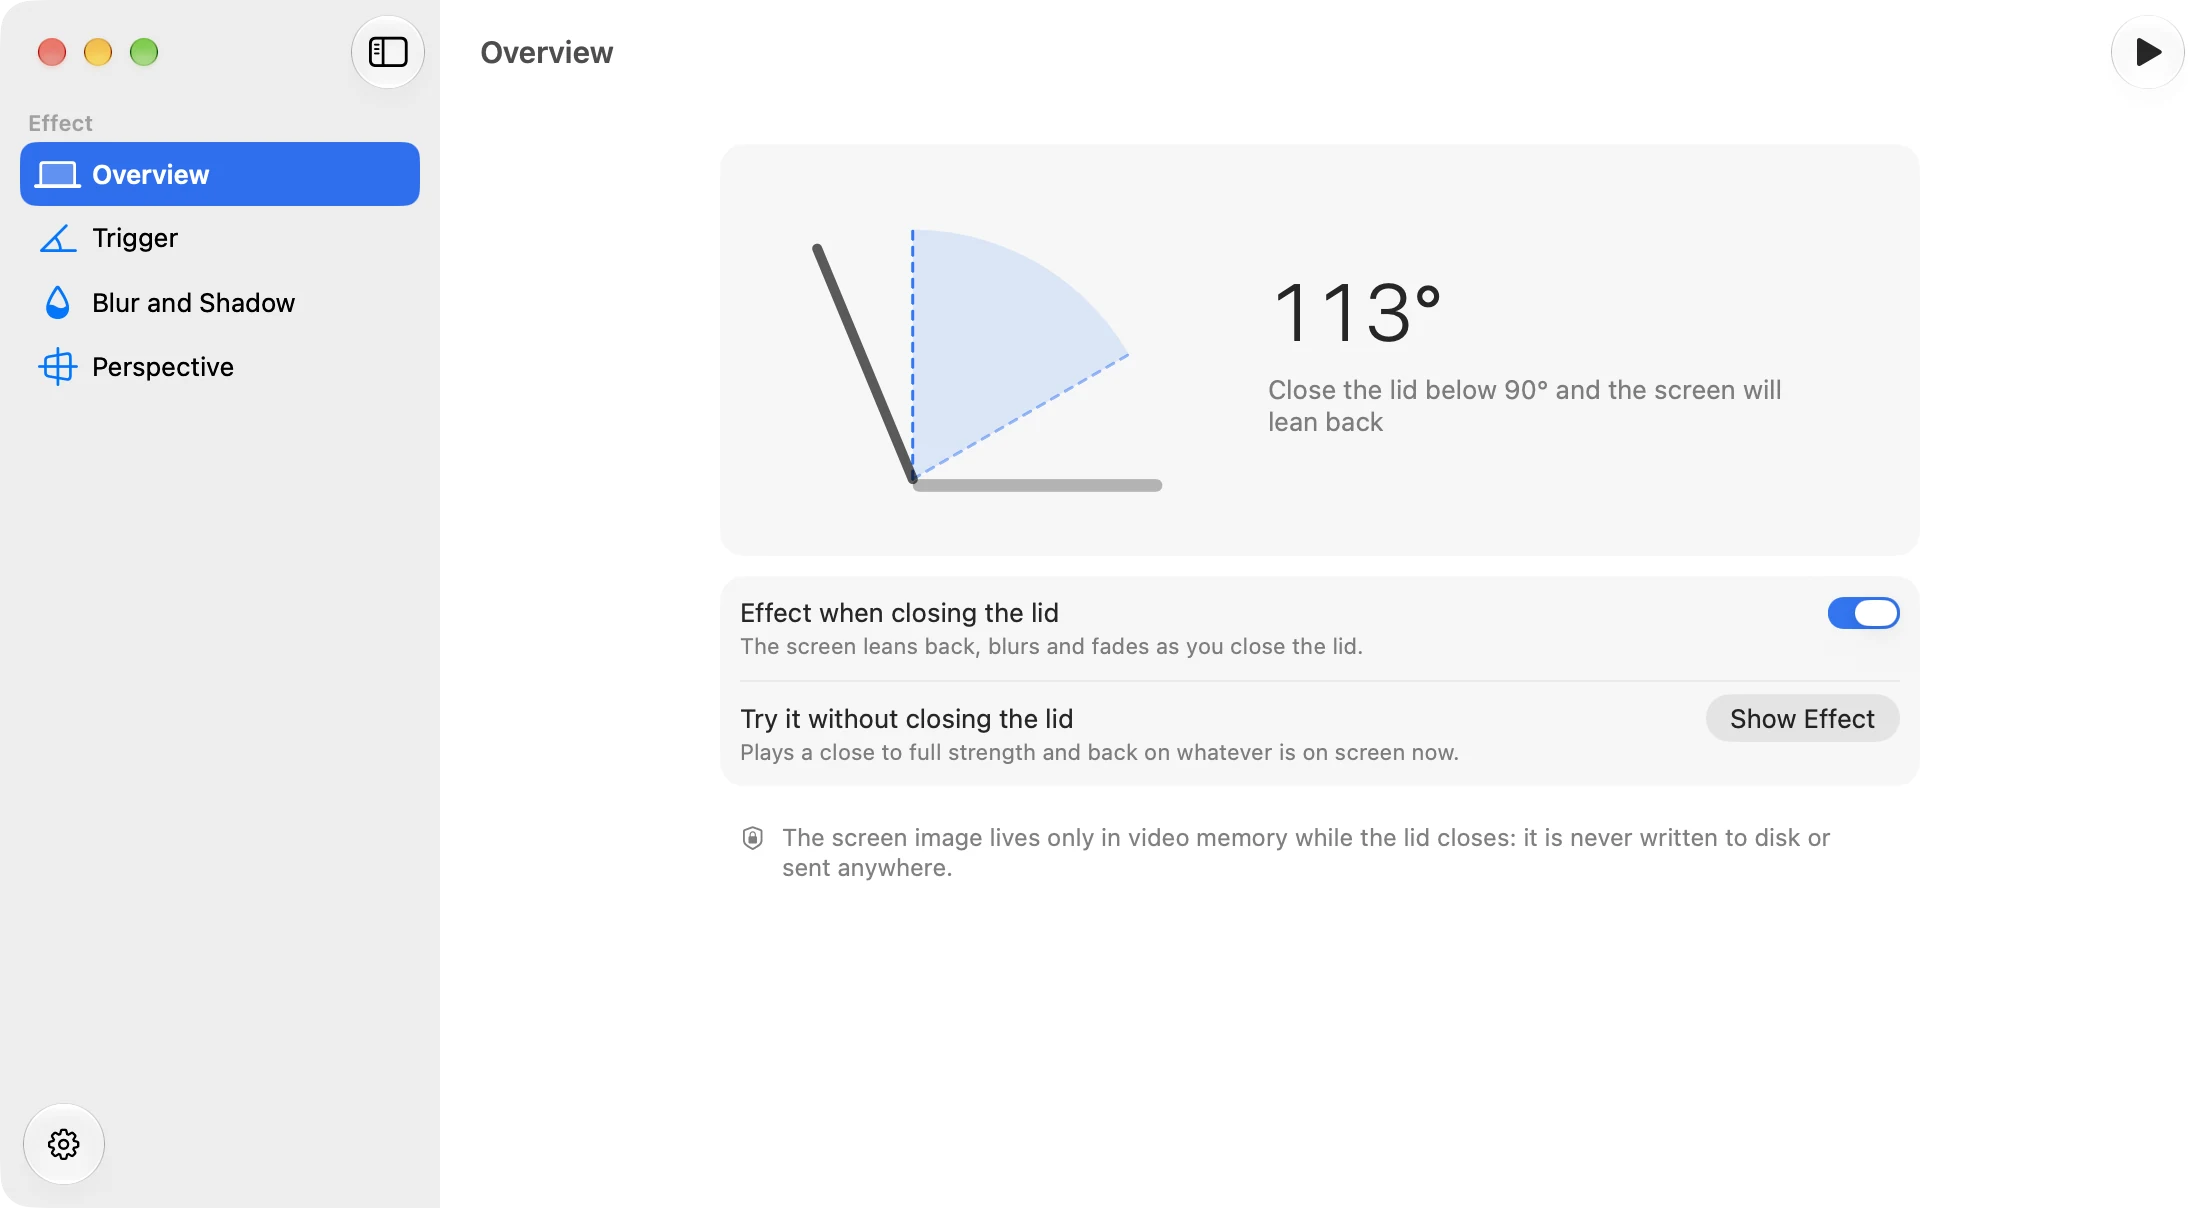
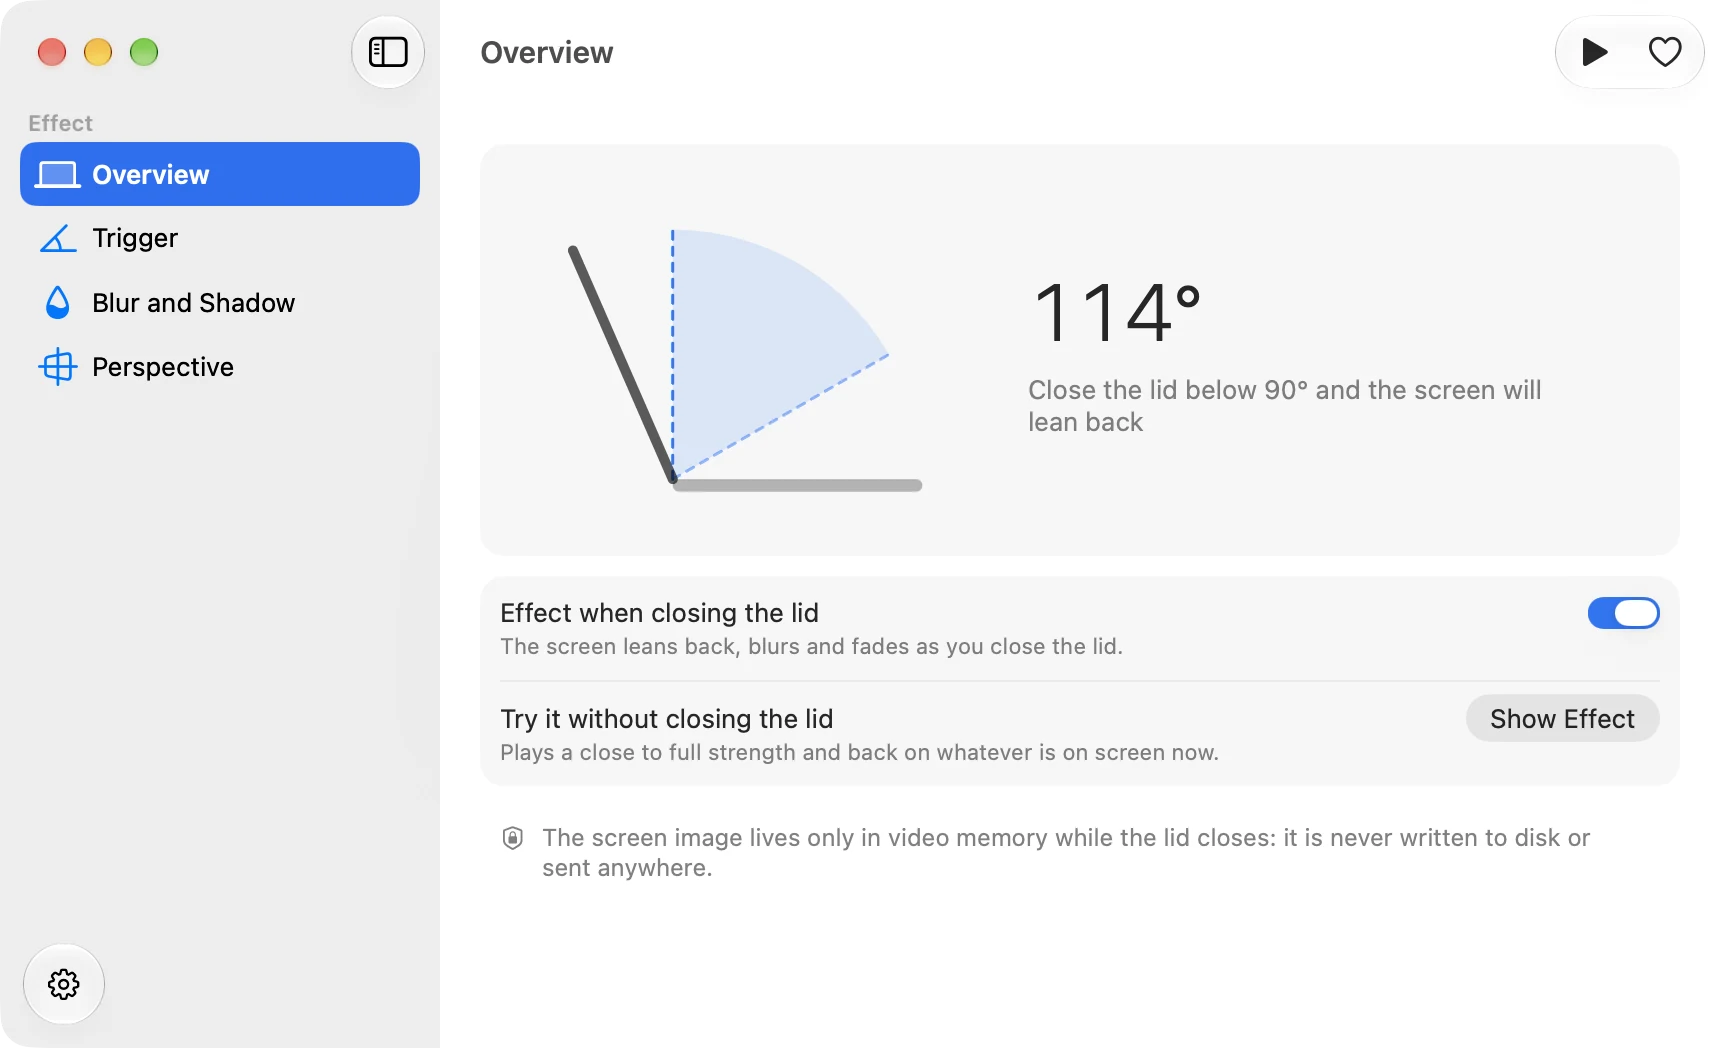
Сайт: 1.0.2, компактный снимок окна

diff --git a/index.html b/index.html
@@ -19,7 +19,7 @@
 <meta name="twitter:card" content="summary_large_image">
 <link rel="icon" type="image/png" href="img/icon-64.png">
 <link rel="apple-touch-icon" href="img/apple-touch-icon.png">
-<link rel="stylesheet" href="style.css?v=e6a2213868">
+<link rel="stylesheet" href="style.css?v=f75392ae5f">
 </head>
 <body>
 <nav class="nav"><div class="wide">
@@ -40,7 +40,7 @@
     <p class="meta">Для MacBook с Apple Silicon и macOS 26 или новее</p>
     <div class="badges"><span class="badge"><svg viewBox="0 0 24 24" fill="none" stroke="currentColor" stroke-width="2" stroke-linecap="round" stroke-linejoin="round"><path d="M3 3l18 18M8.5 16.5a5 5 0 0 1 7 0M5 12.9a10 10 0 0 1 4.2-2.6M19 12.9a10 10 0 0 0-2.8-2M1.8 9.4a15 15 0 0 1 3.9-2.5M22.2 9.4A15 15 0 0 0 11 5.1M12 20h.01"/></svg>Без интернета</span><span class="badge"><svg viewBox="0 0 24 24" fill="none" stroke="currentColor" stroke-width="2" stroke-linecap="round" stroke-linejoin="round"><circle cx="12" cy="8" r="4"/><path d="M4 21a8 8 0 0 1 16 0"/></svg>Без регистрации</span><span class="badge"><svg viewBox="0 0 24 24" fill="none" stroke="currentColor" stroke-width="2" stroke-linecap="round" stroke-linejoin="round"><rect x="3" y="8" width="18" height="4" rx="1"/><path d="M12 8v13M19 12v7a2 2 0 0 1-2 2H7a2 2 0 0 1-2-2v-7M7.5 8a2.5 2.5 0 0 1 0-5C11 3 12 8 12 8s1-5 4.5-5a2.5 2.5 0 0 1 0 5"/></svg>Бесплатно</span></div>
   </div>
-  <picture><source media="(prefers-color-scheme: dark)" srcset="img/overview-ru-dark-1280.webp 1280w, img/overview-ru-dark-2x.webp 2200w" sizes="(max-width: 1240px) 100vw, 1180px"><img class="shot" src="img/overview-ru-1280.webp" srcset="img/overview-ru-1280.webp 1280w, img/overview-ru-2x.webp 2200w" sizes="(max-width: 1240px) 100vw, 1180px" width="2200" height="1208" alt="Окно Наклона: схема крышки с текущим углом и зоной эффекта" fetchpriority="high"></picture>
+  <picture><source media="(prefers-color-scheme: dark)" srcset="img/overview-ru-dark-1280.webp 1280w, img/overview-ru-dark-2x.webp 1720w" sizes="(max-width: 1000px) 100vw, 960px"><img class="shot" src="img/overview-ru-1280.webp" srcset="img/overview-ru-1280.webp 1280w, img/overview-ru-2x.webp 1720w" sizes="(max-width: 1000px) 100vw, 960px" width="1720" height="1048" alt="Окно Наклона: схема крышки с текущим углом и зоной эффекта" fetchpriority="high"></picture>
 </header>
 
 <section id="features">

diff --git a/en/index.html b/en/index.html
@@ -19,7 +19,7 @@
 <meta name="twitter:card" content="summary_large_image">
 <link rel="icon" type="image/png" href="../img/icon-64.png">
 <link rel="apple-touch-icon" href="../img/apple-touch-icon.png">
-<link rel="stylesheet" href="../style.css?v=e6a2213868">
+<link rel="stylesheet" href="../style.css?v=f75392ae5f">
 </head>
 <body>
 <nav class="nav"><div class="wide">
@@ -40,7 +40,7 @@
     <p class="meta">For MacBooks with Apple Silicon running macOS 26 or later</p>
     <div class="badges"><span class="badge"><svg viewBox="0 0 24 24" fill="none" stroke="currentColor" stroke-width="2" stroke-linecap="round" stroke-linejoin="round"><path d="M3 3l18 18M8.5 16.5a5 5 0 0 1 7 0M5 12.9a10 10 0 0 1 4.2-2.6M19 12.9a10 10 0 0 0-2.8-2M1.8 9.4a15 15 0 0 1 3.9-2.5M22.2 9.4A15 15 0 0 0 11 5.1M12 20h.01"/></svg>Works offline</span><span class="badge"><svg viewBox="0 0 24 24" fill="none" stroke="currentColor" stroke-width="2" stroke-linecap="round" stroke-linejoin="round"><circle cx="12" cy="8" r="4"/><path d="M4 21a8 8 0 0 1 16 0"/></svg>No sign-up</span><span class="badge"><svg viewBox="0 0 24 24" fill="none" stroke="currentColor" stroke-width="2" stroke-linecap="round" stroke-linejoin="round"><rect x="3" y="8" width="18" height="4" rx="1"/><path d="M12 8v13M19 12v7a2 2 0 0 1-2 2H7a2 2 0 0 1-2-2v-7M7.5 8a2.5 2.5 0 0 1 0-5C11 3 12 8 12 8s1-5 4.5-5a2.5 2.5 0 0 1 0 5"/></svg>Free</span></div>
   </div>
-  <picture><source media="(prefers-color-scheme: dark)" srcset="../img/overview-en-dark-1280.webp 1280w, ../img/overview-en-dark-2x.webp 2200w" sizes="(max-width: 1240px) 100vw, 1180px"><img class="shot" src="../img/overview-en-1280.webp" srcset="../img/overview-en-1280.webp 1280w, ../img/overview-en-2x.webp 2200w" sizes="(max-width: 1240px) 100vw, 1180px" width="2200" height="1208" alt="The Naklon window: a lid diagram with the current angle and the effect zone" fetchpriority="high"></picture>
+  <picture><source media="(prefers-color-scheme: dark)" srcset="../img/overview-en-dark-1280.webp 1280w, ../img/overview-en-dark-2x.webp 1720w" sizes="(max-width: 1000px) 100vw, 960px"><img class="shot" src="../img/overview-en-1280.webp" srcset="../img/overview-en-1280.webp 1280w, ../img/overview-en-2x.webp 1720w" sizes="(max-width: 1000px) 100vw, 960px" width="1720" height="1048" alt="The Naklon window: a lid diagram with the current angle and the effect zone" fetchpriority="high"></picture>
 </header>
 
 <section id="features">

diff --git a/style.css b/style.css
@@ -262,3 +262,7 @@ footer p { margin: 6px 0; line-height: 1.5; }
   .hero .shot { padding: 0 16px; }
   .wrap, .wide { padding: 0 16px; }
 }
+
+/* «Наклон»: снимок окна в шапке компактнее, чем у «Слова». Окно маленькое, и растянутое
+   на 1180 точек оно выглядело пустым; 960 — размер, при котором его читают целиком. */
+.hero .shot { width: min(100%, 960px); }
